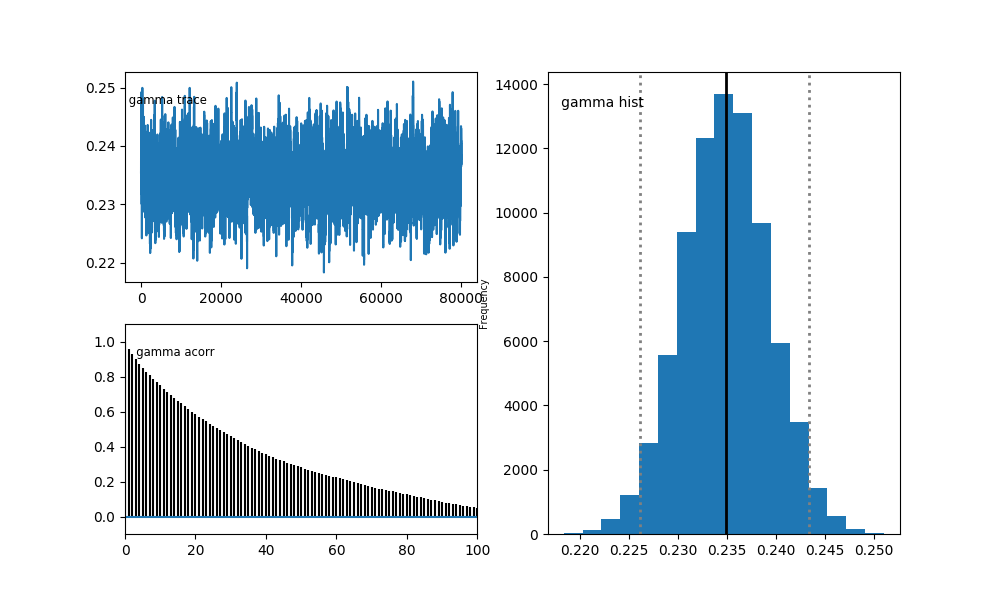
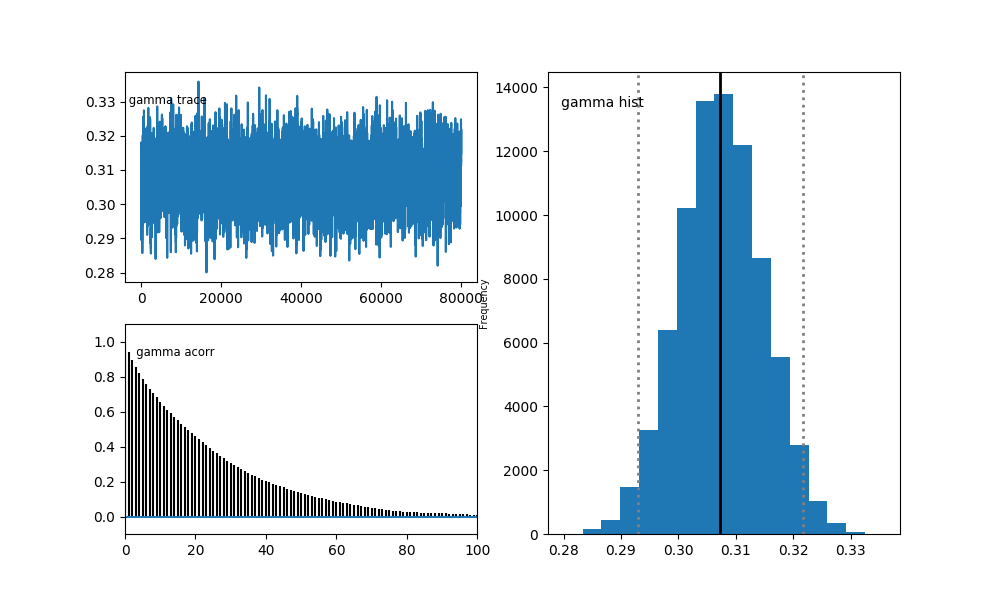
updated

diff --git a/tools/get_statistics.py b/tools/get_statistics.py
@@ -15,10 +15,10 @@ nprocs = comm.Get_size()
 
 # dataDir = '/home/bruno/Desktop/da
 homeDir = '/home/brvillas/'
-dataDir = '/data/groups/comp-astro/bruno/'
-# dataDir = '/gpfs/alpine/proj-shared/ast149/'
-inDir = dataDir + 'cosmo_sims/2048_hydro_50Mpc/output_files_hm12/'
-outDir = homeDir + 'cosmo_sims/2048_hydro_50Mpc/output_files_hm12/statistics/'
+# dataDir = '/data/groups/comp-astro/bruno/'
+dataDir = '/gpfs/alpine/proj-shared/ast149/'
+inDir = dataDir + 'cosmo_sims/2048_hydro_50Mpc/output_files_pchw18/'
+outDir = dataDir + 'cosmo_sims/2048_hydro_50Mpc/output_files_pchw18/statistics/'
 
 hydro = True
 particles = False
